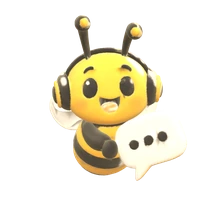
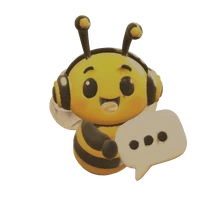
Buzz bee: darker clay texture and no yellow round behind the launcher

Changed region(s): [[0.2222, 0.0556, 0.8889, 0.8333]]

diff --git a/buzz-chat.js b/buzz-chat.js
@@ -53,6 +53,7 @@
     transition: transform .2s cubic-bezier(.34,1.5,.64,1); -webkit-tap-highlight-color: transparent; touch-action: manipulation; }
   .buzz-fab:hover { transform: translateY(-3px); }
   .buzz-fab:active { transform: scale(.96); transition-duration: .08s; }
+  .buzz-fab .buzz-pad, .buzz-fab .buzz-glow { display: none; }      /* no yellow round behind the bee: just the bee and its soft contact shadow */
   .buzz-glow { position: absolute; left: 50%; bottom: -6px; width: 130%; height: 78%; margin-left: -65%; border-radius: 50%; pointer-events: none; opacity: .75; transition: opacity .3s ease;
     background: radial-gradient(ellipse at center, rgba(255,190,50,.30) 0%, rgba(255,196,70,.13) 45%, rgba(255,200,80,0) 72%); }
   [data-theme="dark"] .buzz-glow { background: radial-gradient(ellipse at center, rgba(255,176,40,.24) 0%, rgba(255,176,40,.10) 45%, rgba(255,176,40,0) 72%); }
@@ -235,8 +236,8 @@
 
   const root = el('div', {className: 'buzz-root'});
   // The still bee pictures (idle, wave, typing): one transparent picture per pose, each made at 108, 216 and 324 px (1x, 2x, 3x), all the same canvas.
-  const picture = (kind, className, size) => el('img', {className, alt: '', width: size, height: size, decoding: 'async', src: `/buzz-bee-${kind}-1x.webp`,
-    srcset: `/buzz-bee-${kind}-1x.webp 1x, /buzz-bee-${kind}-2x.webp 2x, /buzz-bee-${kind}-3x.webp 3x`});
+  const picture = (kind, className, size) => el('img', {className, alt: '', width: size, height: size, decoding: 'async', src: `/buzz-bee-${kind}-1x.webp?v=2`,
+    srcset: `/buzz-bee-${kind}-1x.webp?v=2 1x, /buzz-bee-${kind}-2x.webp?v=2 2x, /buzz-bee-${kind}-3x.webp?v=2 3x`});
   const canvas = el('canvas', {className: 'buzz-canvas', 'aria-hidden': 'true'});
   const fab = el('button', {type: 'button', className: 'buzz-fab', 'aria-label': 'Chat with Buzz, PrintBee support', 'aria-haspopup': 'dialog', 'aria-expanded': 'false',
     'aria-describedby': 'buzz-tip'},

diff --git a/buzz-bee3d.js b/buzz-bee3d.js
@@ -13,7 +13,7 @@ import {GLTFLoader} from '/vendor/three/GLTFLoader.js';
 import {RoomEnvironment} from '/vendor/three/RoomEnvironment.js';
 
 const MODEL = '/buzz-bee.glb?v=1';
-const CLAY_TEXTURE = '/buzz-bee-clay.webp?v=1';
+const CLAY_TEXTURE = '/buzz-bee-clay.webp?v=2';
 const FIT = 1.62;                      // the bee's longest side, in world units (the view is 1.985 units tall for the button's box): leaves room to hop and spin
 const FACE_YAW = 0;                    // turn the model so it looks at the customer (set after checking the model's orientation)
 const IDLE_FPS = 30;
